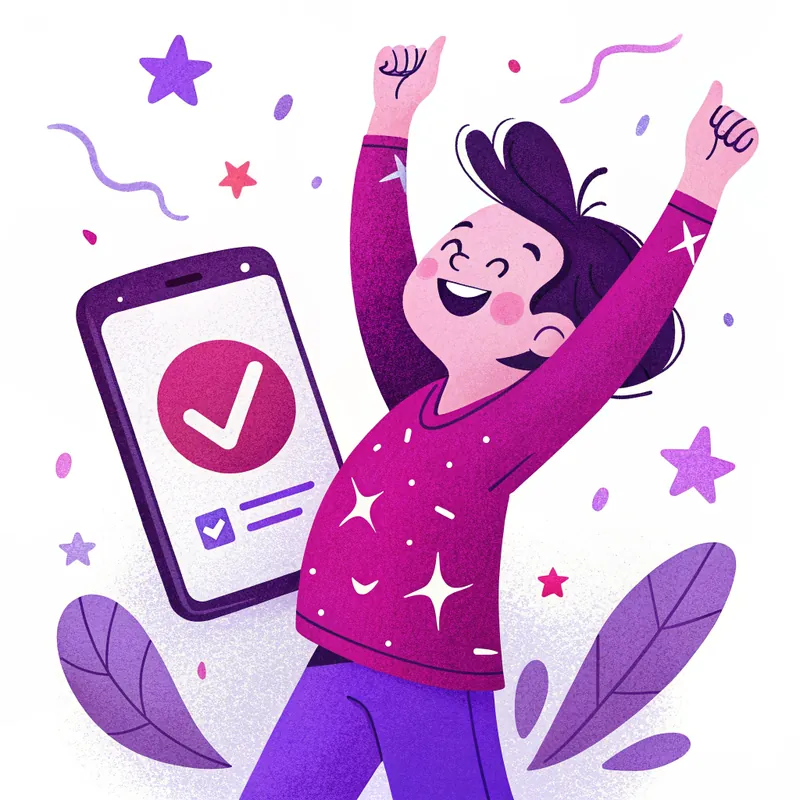
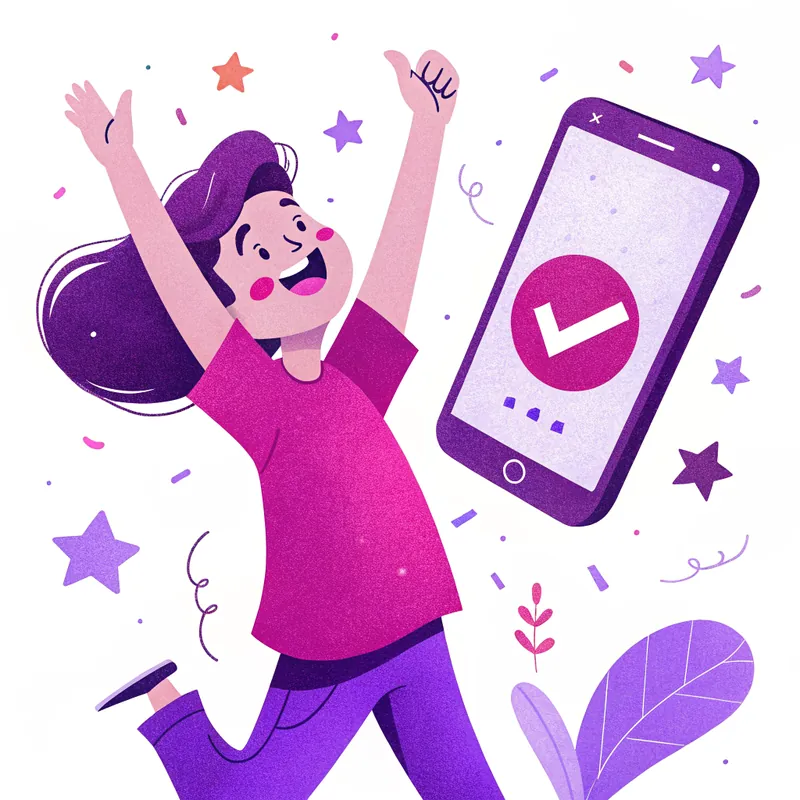
Polish illustration layout after visual QA
- How It Works steps: rounded-square frame so artwork is no longer clipped
- Green travel card: framed illustration tile instead of an abrupt crop
- Features: an odd last card spans the full row instead of leaving a gap
- Features mobile: participant illustration matches the step tile size
- Use the text-free "Confirm and submit" illustration

Claude-Session: https://claude.ai/code/session_01VHWvvU8CEspzcSZUXhMErp

diff --git a/src/app/features/page.tsx b/src/app/features/page.tsx
@@ -204,7 +204,7 @@ const participantFeatures: Feature[] = [
 
 function FeatureCard({ feature }: { feature: Feature }) {
   return (
-    <div className="rounded-2xl bg-white p-6 ring-1 ring-gray-100 shadow-sm hover:shadow-md transition-shadow">
+    <div className="rounded-2xl bg-white p-6 ring-1 ring-gray-100 shadow-sm hover:shadow-md transition-shadow sm:[&:last-child:nth-child(odd)]:col-span-2">
       <div className="flex items-center gap-3">
         <div className="flex h-10 w-10 shrink-0 items-center justify-center rounded-xl gradient-brand">
           <feature.icon className="h-5 w-5 text-white" />
@@ -270,7 +270,7 @@ export default function FeaturesPage() {
         <Container>
           <div className="grid grid-cols-1 gap-12 lg:grid-cols-[22rem_1fr] lg:gap-16 items-center">
             <div className="text-center lg:text-left">
-              <div className="relative mx-auto lg:mx-0 h-72 w-72 rounded-[2.5rem] bg-white overflow-hidden ring-8 ring-white/10">
+              <div className="relative mx-auto lg:mx-0 h-56 w-56 lg:h-72 lg:w-72 rounded-[2.5rem] bg-white overflow-hidden ring-8 ring-white/10">
                 <Image src="/illustrations/participants.webp" alt="" fill className="object-contain" sizes="288px" />
               </div>
               <h2 className="mt-8 text-3xl font-bold text-white sm:text-4xl">For Participants</h2>

diff --git a/src/components/sections/Benefits.tsx b/src/components/sections/Benefits.tsx
@@ -69,9 +69,9 @@ export default function Benefits() {
           ))}
 
           {/* Green travel gets a full-width card: it is the topic coordinators search for most */}
-          <div className="sm:col-span-2 lg:col-span-3 rounded-2xl bg-white p-6 lg:p-8 ring-2 ring-green-500/30 shadow-sm hover:shadow-md transition-shadow grid grid-cols-1 md:grid-cols-[14rem_1fr] gap-6 items-center">
-            <div className="relative h-48 md:h-52">
-              <Image src={greenTravel.image} alt="" fill className="object-contain" sizes="(max-width: 768px) 90vw, 224px" />
+          <div className="sm:col-span-2 lg:col-span-3 rounded-2xl bg-white p-6 lg:p-8 ring-2 ring-green-500/30 shadow-sm hover:shadow-md transition-shadow grid grid-cols-1 md:grid-cols-[14rem_1fr] md:gap-10 gap-6 items-center">
+            <div className="relative mx-auto h-56 w-56 rounded-2xl overflow-hidden ring-1 ring-green-200">
+              <Image src={greenTravel.image} alt="" fill className="object-cover" sizes="224px" />
             </div>
             <div>
               <span className="inline-flex rounded-full bg-green-50 px-3 py-1 text-xs font-semibold text-green-700 ring-1 ring-green-200">

diff --git a/src/components/sections/HowItWorksPreview.tsx b/src/components/sections/HowItWorksPreview.tsx
@@ -48,7 +48,7 @@ export default function HowItWorksPreview() {
               )}
 
               <div className="relative mx-auto h-48 w-48">
-                <Image src={step.image} alt="" fill className="object-contain rounded-full bg-white" sizes="192px" />
+                <Image src={step.image} alt="" fill className="object-contain rounded-3xl bg-white" sizes="192px" />
                 <div className="absolute -top-1 -left-1 flex h-11 w-11 items-center justify-center rounded-xl gradient-brand text-white text-lg font-bold shadow-lg shadow-primary-500/20">
                   {step.number}
                 </div>
